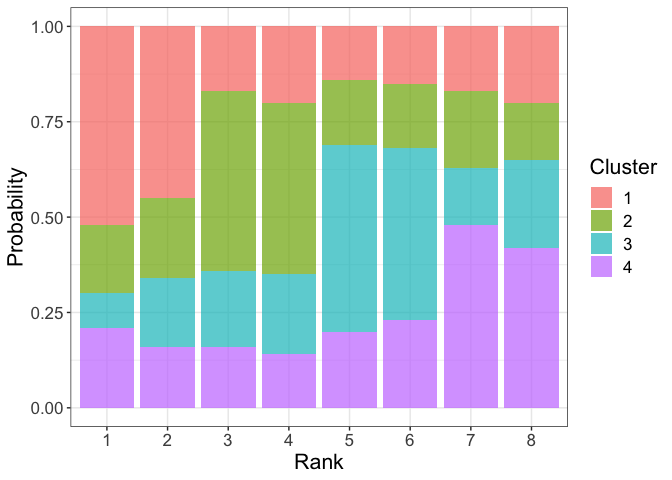
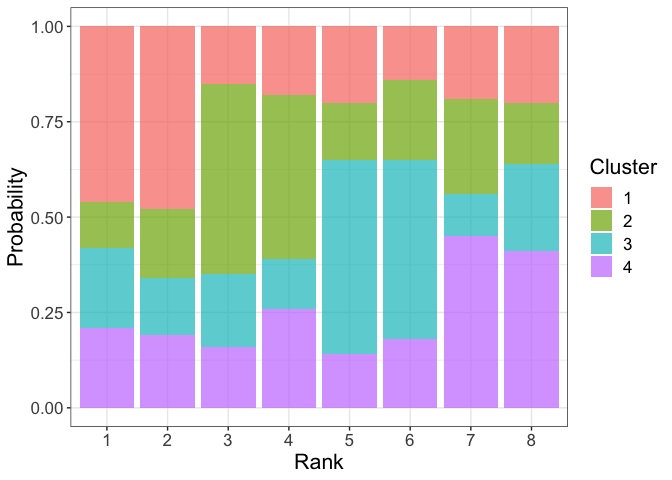
update readme

diff --git a/README.md b/README.md
@@ -2,8 +2,8 @@ Clustered Mallows Model
 ================
 Luiza Piancastelli
 
-Configuration: please ensure that you have a C++ compiler properly set
-up.
+Configuration requirement: please ensure that you have a C++ compiler
+properly set up.
 
 ``` r
 # Package names
@@ -25,22 +25,50 @@ source("cmm_functions.R")
 
 ## Simulating CMM data
 
+Our first code chunk simulates data from the CMM with the Hamming
+$d_{oc}$, allocations vector $\boldsymbol = (1,1,2,2,3,3,4,4)$ and
+$\theta = 0.8$. This means that the CT is (2,2,2,2), which is a
+partition of the total $n=8$ items into $L=4$ ordered groups, each with
+two items. The function `partition_from_z` can be used to produce a list
+of size $L$ giving which items are in each partition. In this example
+our item set is arbitrarily named $\{1, \ldots, n\}$ but a string with
+item names can be provided as well.
+
+The function `rcmm` produces $q$ random realizations of a CMM with given
+$\boldsymbol{z}$ and $\theta$. Here we ask for $q=100$ simulated ranks.
+
 ``` r
 z = sort(rep(1:4, 2))
 theta = 0.8
 
+partition_from_z(z)
+```
+
+    ## [[1]]
+    ## [1] 1 2
+    ## 
+    ## [[2]]
+    ## [1] 3 4
+    ## 
+    ## [[3]]
+    ## [1] 5 6
+    ## 
+    ## [[4]]
+    ## [1] 7 8
+
+``` r
 Pi = rcmm(100, theta, z, 'h')
 
 head(Pi)
 ```
 
     ##      [,1] [,2] [,3] [,4] [,5] [,6] [,7] [,8]
-    ## [1,]    3    7    1    2    5    4    6    8
-    ## [2,]    3    2    1    4    6    5    8    7
-    ## [3,]    2    3    6    8    5    1    7    4
-    ## [4,]    4    8    1    2    5    6    3    7
-    ## [5,]    6    4    1    7    5    3    2    8
-    ## [6,]    2    7    3    6    5    4    8    1
+    ## [1,]    2    5    4    7    3    1    6    8
+    ## [2,]    4    7    1    2    5    8    6    3
+    ## [3,]    7    1    4    3    5    6    2    8
+    ## [4,]    2    8    4    7    5    6    1    3
+    ## [5,]    2    4    3    1    6    5    7    8
+    ## [6,]    5    6    4    3    2    8    7    1
 
 ``` r
 dim(Pi)
@@ -53,16 +81,31 @@ apply(Pi, 2, function(x){prop.table(table(x))})
 ```
 
     ##   [,1] [,2] [,3] [,4] [,5] [,6] [,7] [,8]
-    ## 1 0.19 0.20 0.15 0.12 0.05 0.08 0.09 0.12
-    ## 2 0.33 0.25 0.02 0.08 0.09 0.07 0.08 0.08
-    ## 3 0.08 0.12 0.25 0.22 0.12 0.06 0.08 0.07
-    ## 4 0.10 0.09 0.22 0.23 0.05 0.11 0.12 0.08
-    ## 5 0.03 0.09 0.10 0.09 0.31 0.19 0.09 0.10
-    ## 6 0.06 0.09 0.10 0.12 0.18 0.26 0.06 0.13
-    ## 7 0.09 0.06 0.10 0.05 0.15 0.15 0.19 0.21
-    ## 8 0.12 0.10 0.06 0.09 0.05 0.08 0.29 0.21
+    ## 1 0.19 0.33 0.05 0.06 0.09 0.06 0.11 0.11
+    ## 2 0.27 0.15 0.10 0.12 0.11 0.08 0.08 0.09
+    ## 3 0.06 0.05 0.22 0.28 0.08 0.14 0.09 0.08
+    ## 4 0.06 0.13 0.28 0.15 0.07 0.07 0.16 0.08
+    ## 5 0.11 0.06 0.07 0.10 0.31 0.23 0.04 0.08
+    ## 6 0.10 0.09 0.12 0.03 0.20 0.24 0.07 0.15
+    ## 7 0.12 0.08 0.05 0.12 0.08 0.10 0.25 0.20
+    ## 8 0.09 0.11 0.11 0.14 0.06 0.08 0.20 0.21
+
+The final piece of code shows the proportion of times that each position
+(row) is occupied by each item (column). As expected since items
+$\{1,2\}$ are the first partition, there is a higher prevalence of them
+in the first and second positions of the ranks. A similar comment
+applies to $\{3, 4\}$ in 3$^{rd}$ and 4$^{th}$ places and so on. Another
+important aspect of the CMM is that same group items are exchangeable,
+so the probabilities for items with the same allocation are
+approximately equal.
 
 ## Maximum likelihood estimation
+
+We now apply the maximum likelihood estimation method in sections 6.1
+and 6.2 of the paper to the simulated data. The routine `MLE_fit_cmm`
+calls the simulated annealing algorithm with some supplied schedule, and
+the $\theta$ iterative moment-matching routine that takes tolerance
+`eps`.
 
 ``` r
 anneal = seq(0.01, 2, 0.01) #Annealing sequence for z optimization
@@ -86,9 +129,12 @@ mle$z_mle
 mle$theta_mle
 ```
 
-    ## [1] 0.81329
+    ## [1] 0.8233959
 
-Graphical summary of the fitted partition:
+A graphical summary of the fitted partition can be obtained with
+`plot_rank_probs` as illustrated below. In this plot, each bar
+corresponds to a ranking position, and colors indicate the prevalence of
+clusters therein.
 
 ``` r
 plot_rank_probs(Pi, mle$z_mle)
@@ -96,8 +142,11 @@ plot_rank_probs(Pi, mle$z_mle)
 
 ![](README_files/figure-gfm/unnamed-chunk-4-1.png)<!-- -->
 
-Let us fit the simulated data with the mispecified distance and
-investigate model choice.
+Let us also fit the simulated data with the mispecified distance
+(Kendall) and investigate model choice. The criterion that we use is
+outlined in the manuscript section 4. It is given by the optimized
+log-likelihood function value, penalised for complexity of the
+partition.
 
 ``` r
 mle2 = MLE_fit_cmm(CT, Pi, anneal, eps, dist = 'k')
@@ -105,15 +154,25 @@ mle2 = MLE_fit_cmm(CT, Pi, anneal, eps, dist = 'k')
 I_criterion(mle, 10000)
 ```
 
-    ## [1] -989.7174
+    ## [1] -998.7394
 
 ``` r
 I_criterion(mle2, 10000)
 ```
 
-    ## [1] -1028.862
+    ## [1] -1042.304
+
+The maximum value of `I_criterion` indicates the best model, and this
+can also be applied to the $CT$ choice.
 
 ## Bayesian inference with AEA
+
+Finally, the Bayesian inferential approach is implemented in `cmm_MCMC`.
+This function relies on the Approximate Exchange Algorithm routine,
+described in Algorithm 2 of the manuscript. It takes a pre-specified
+$CT$, the observed data $\underline{\pi}$, and choices of prior
+parameters $p(\theta) ~ \mbox{Gamma(shape, rate)}$, number of iterations
+and distance.
 
 ``` r
 mcmc = cmm_MCMC(CT, Pi, 1000, "h", prior_theta= list(shape = 2, rate = 2))
